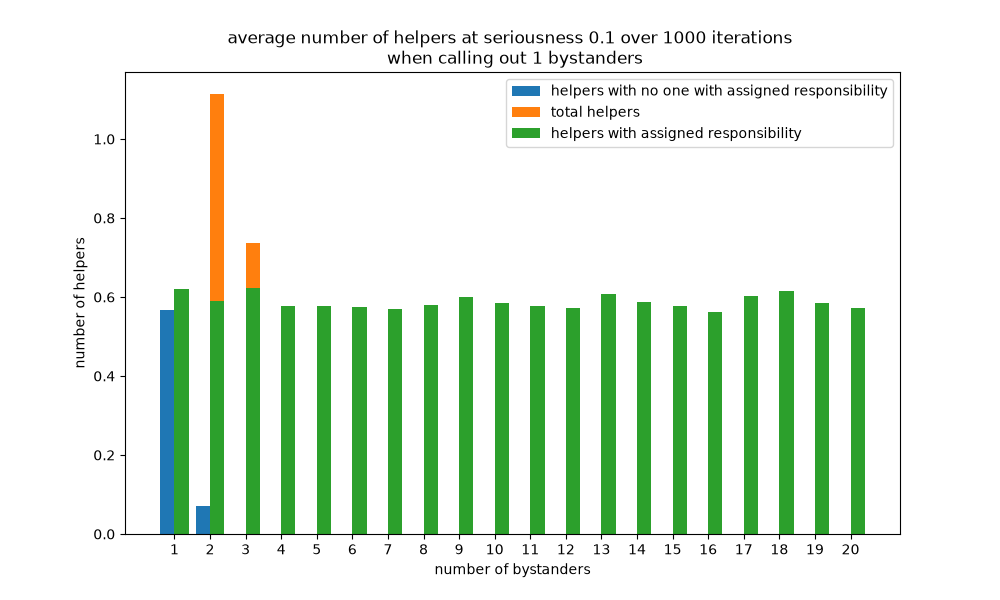
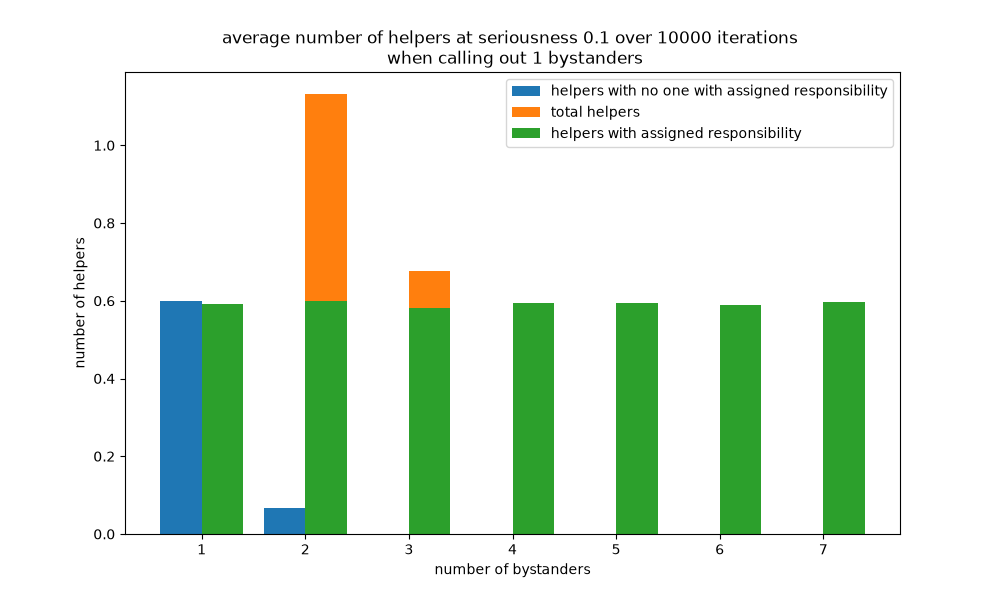
minor fix in Env

diff --git a/classes/Environment.py b/classes/Environment.py
@@ -1,3 +1,5 @@
+from mesa import agent
+
 from classes.Agent import PartyAgents as AgentClass
 import mesa
 from mesa.discrete_space import OrthogonalMooreGrid
@@ -84,13 +86,11 @@ class Environment(mesa.Model):
         #print(np.random.normal(0.5, 1))
 
     def call_for_help(self):
-        selected_agents = self.random.sample(
-            list(self.bystanders),
-            k=self.agents_helping,
-        )
-        for agents in selected_agents:
-            agents.assign_responsibility(self.agents_helping)
+        actual_group_size = min(self.agents_helping, self.num_agents)
+        selected_agents = self.random.sample(list(self.bystanders), k=actual_group_size)
 
+        for agent in selected_agents:
+            agent.assign_responsibility(actual_group_size)
 
     def step(self):
         self.datacollector.collect(self)

diff --git a/plots.py b/plots.py
@@ -5,8 +5,8 @@ import numpy as np
 
 SERIOUSNESS = 0.1
 
-CALLED_OUT_GROUP = 1
-AGENTS = [n for n in range(1, 21) if n >= CALLED_OUT_GROUP]
+CALLED_OUT_GROUP = 3
+AGENTS = [1, 2, 3, 4, 5, 6, 7, 8]
 ITERATIONS = 1000
 PATH_FILE = "plots/"
 
